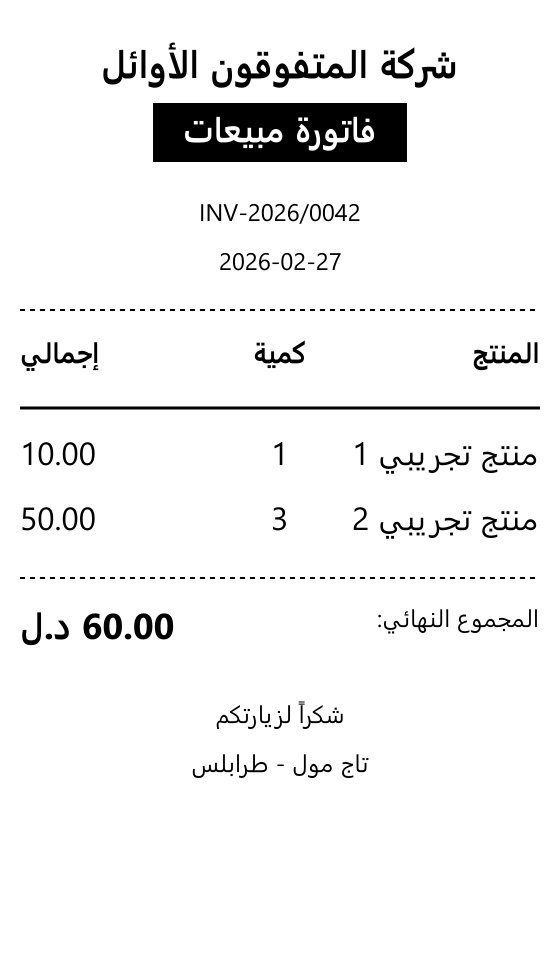
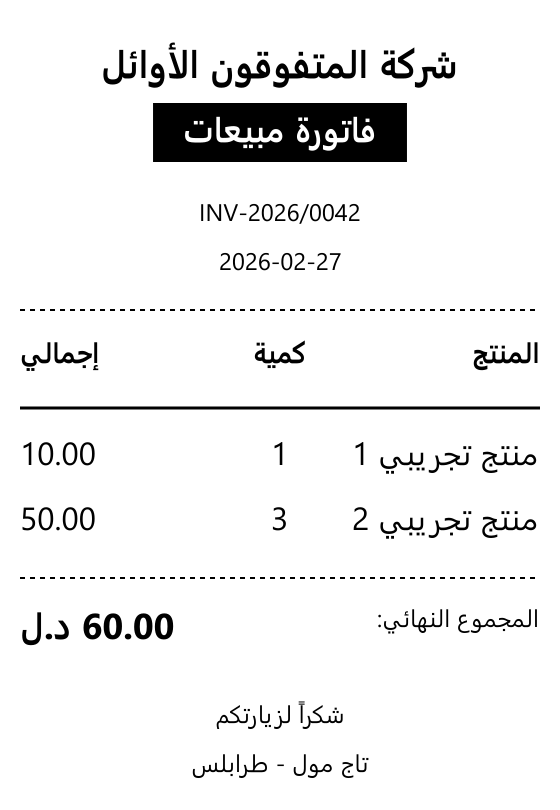
.

diff --git a/server.js b/server.js
@@ -28,7 +28,7 @@ function renderInvoiceToImage(data) {
     const ITEM_LINE_HEIGHT = 65; // زيادة ارتفاع السطر للمنتجات لتجنب التداخل
 
     const itemsHeight = (data.items || []).length * ITEM_LINE_HEIGHT;
-    const totalHeight = 650 + itemsHeight + 200; // زيادة الارتفاع الكلي للملف
+    const totalHeight = 680 + itemsHeight; // تقليل الفراغ السفلي بناءً على طلب المستخدم
 
     const canvas = createCanvas(PRINTER_WIDTH_PX, totalHeight);
     const ctx = canvas.getContext('2d');
